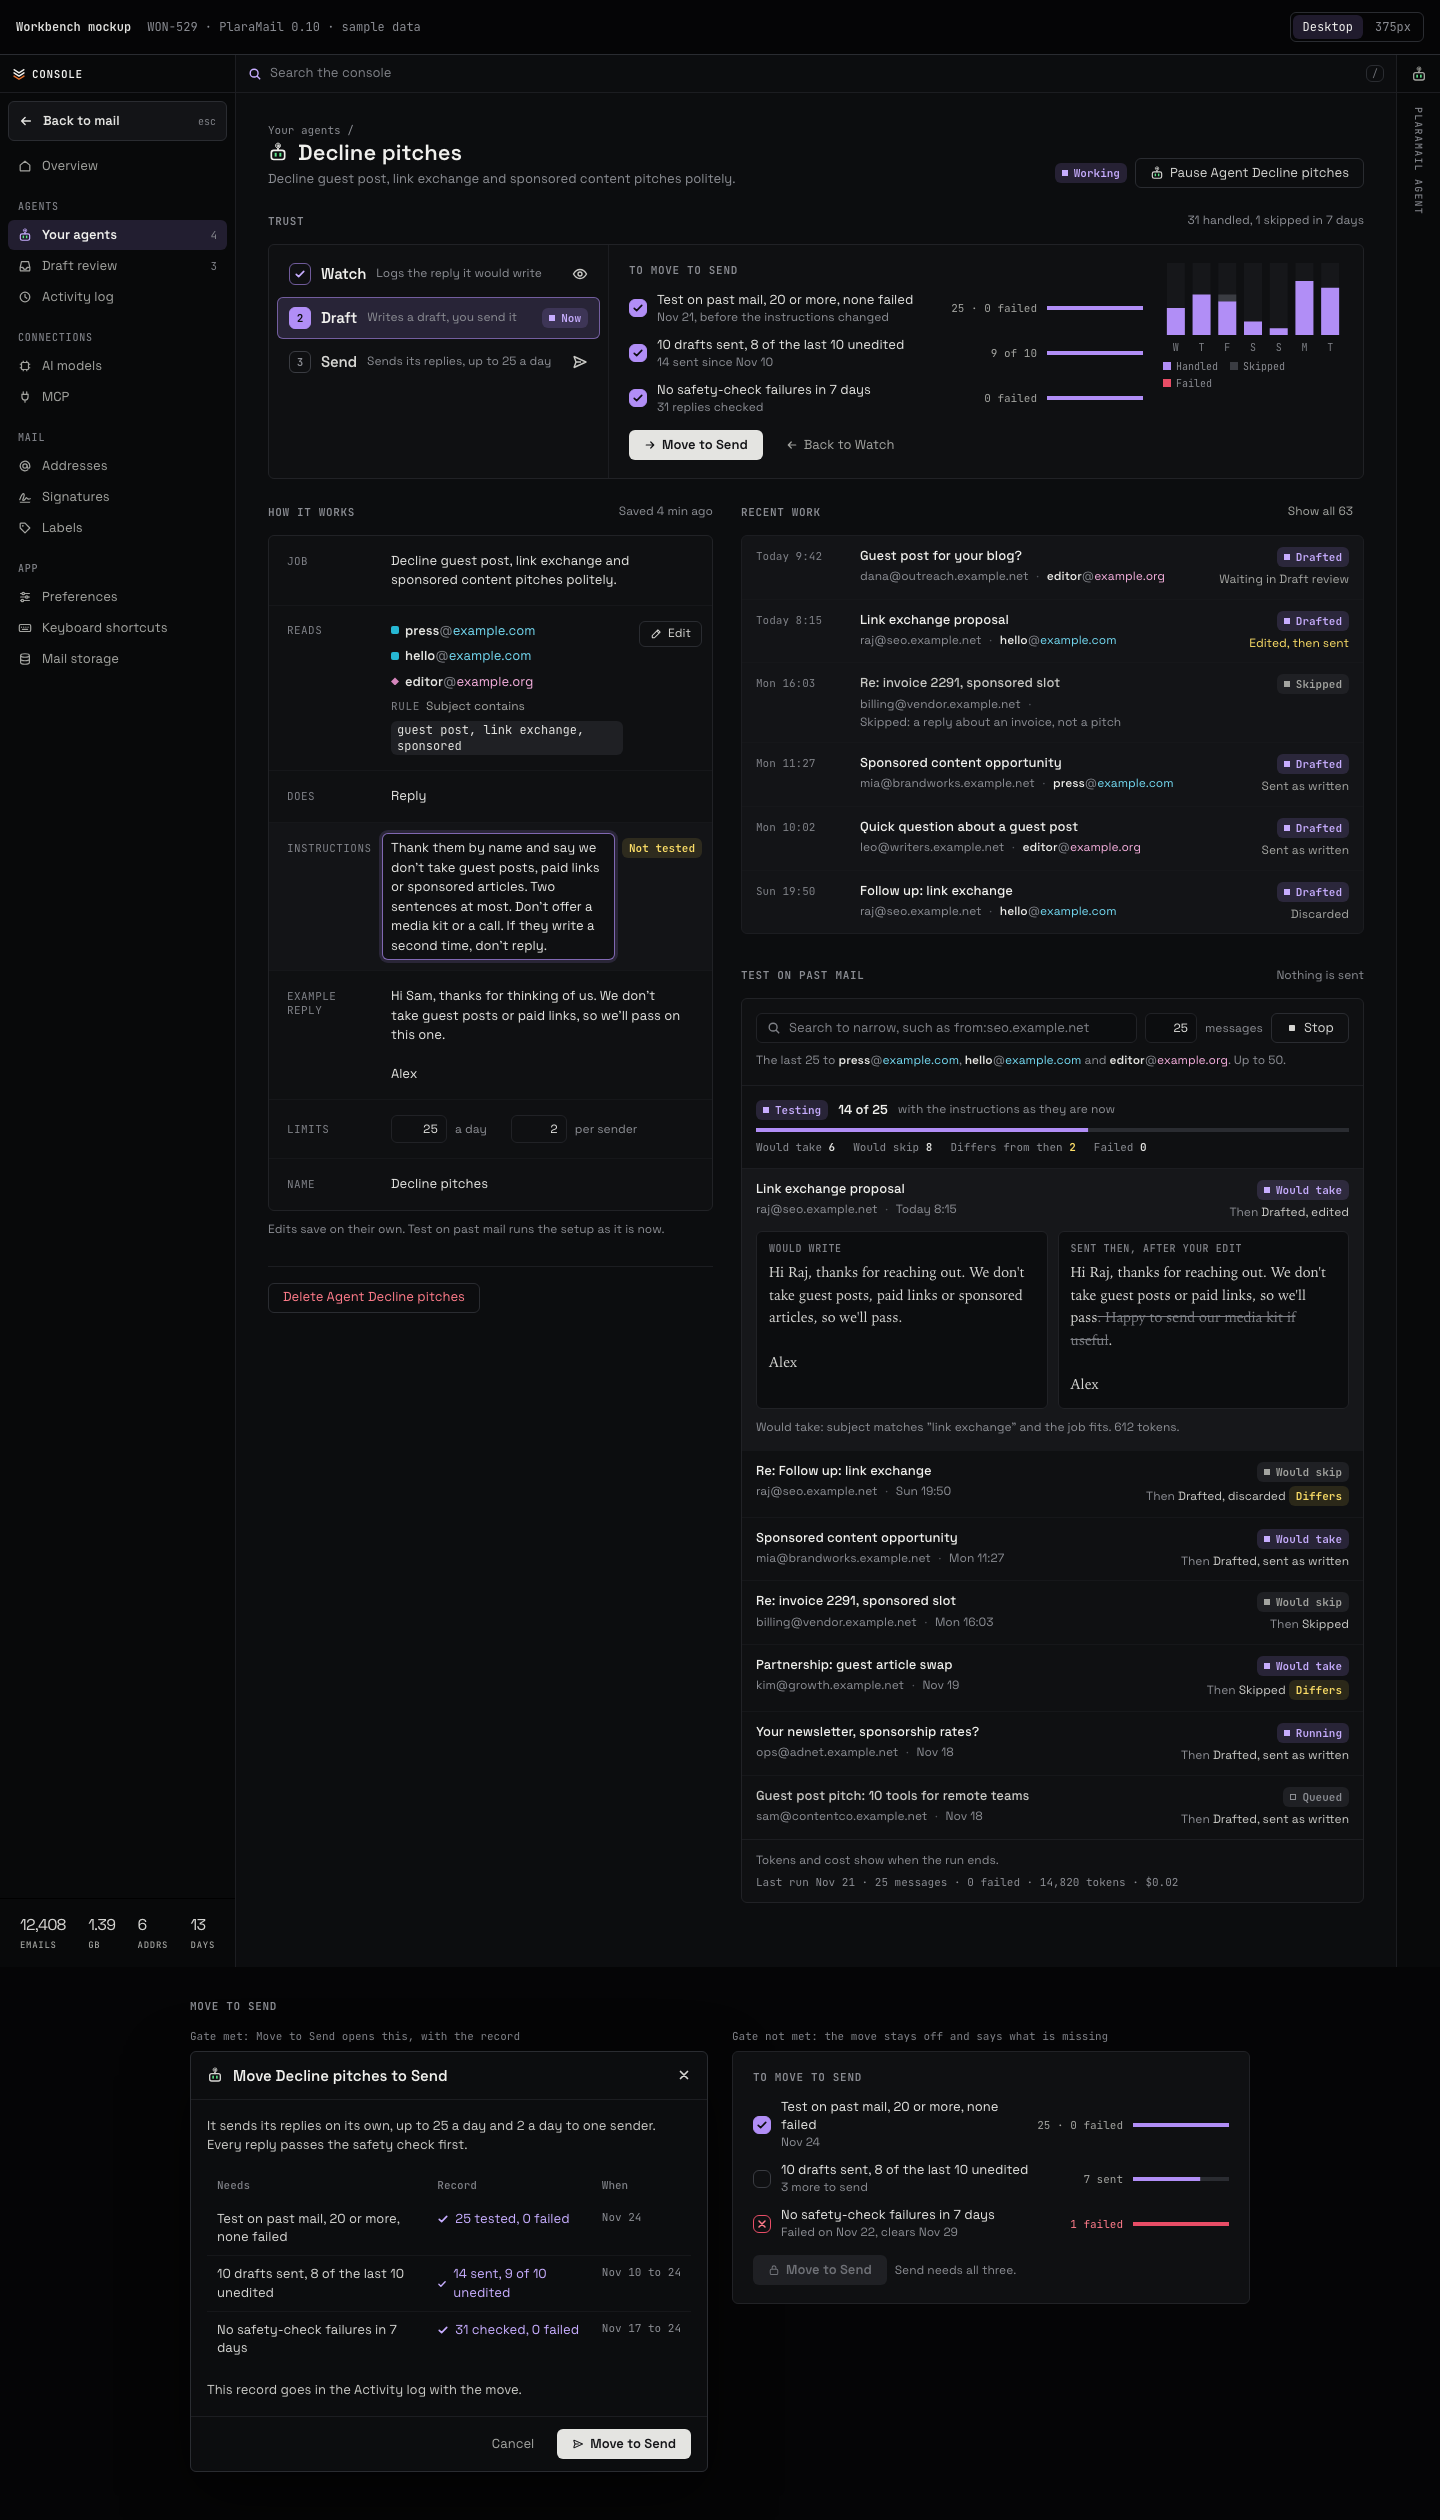
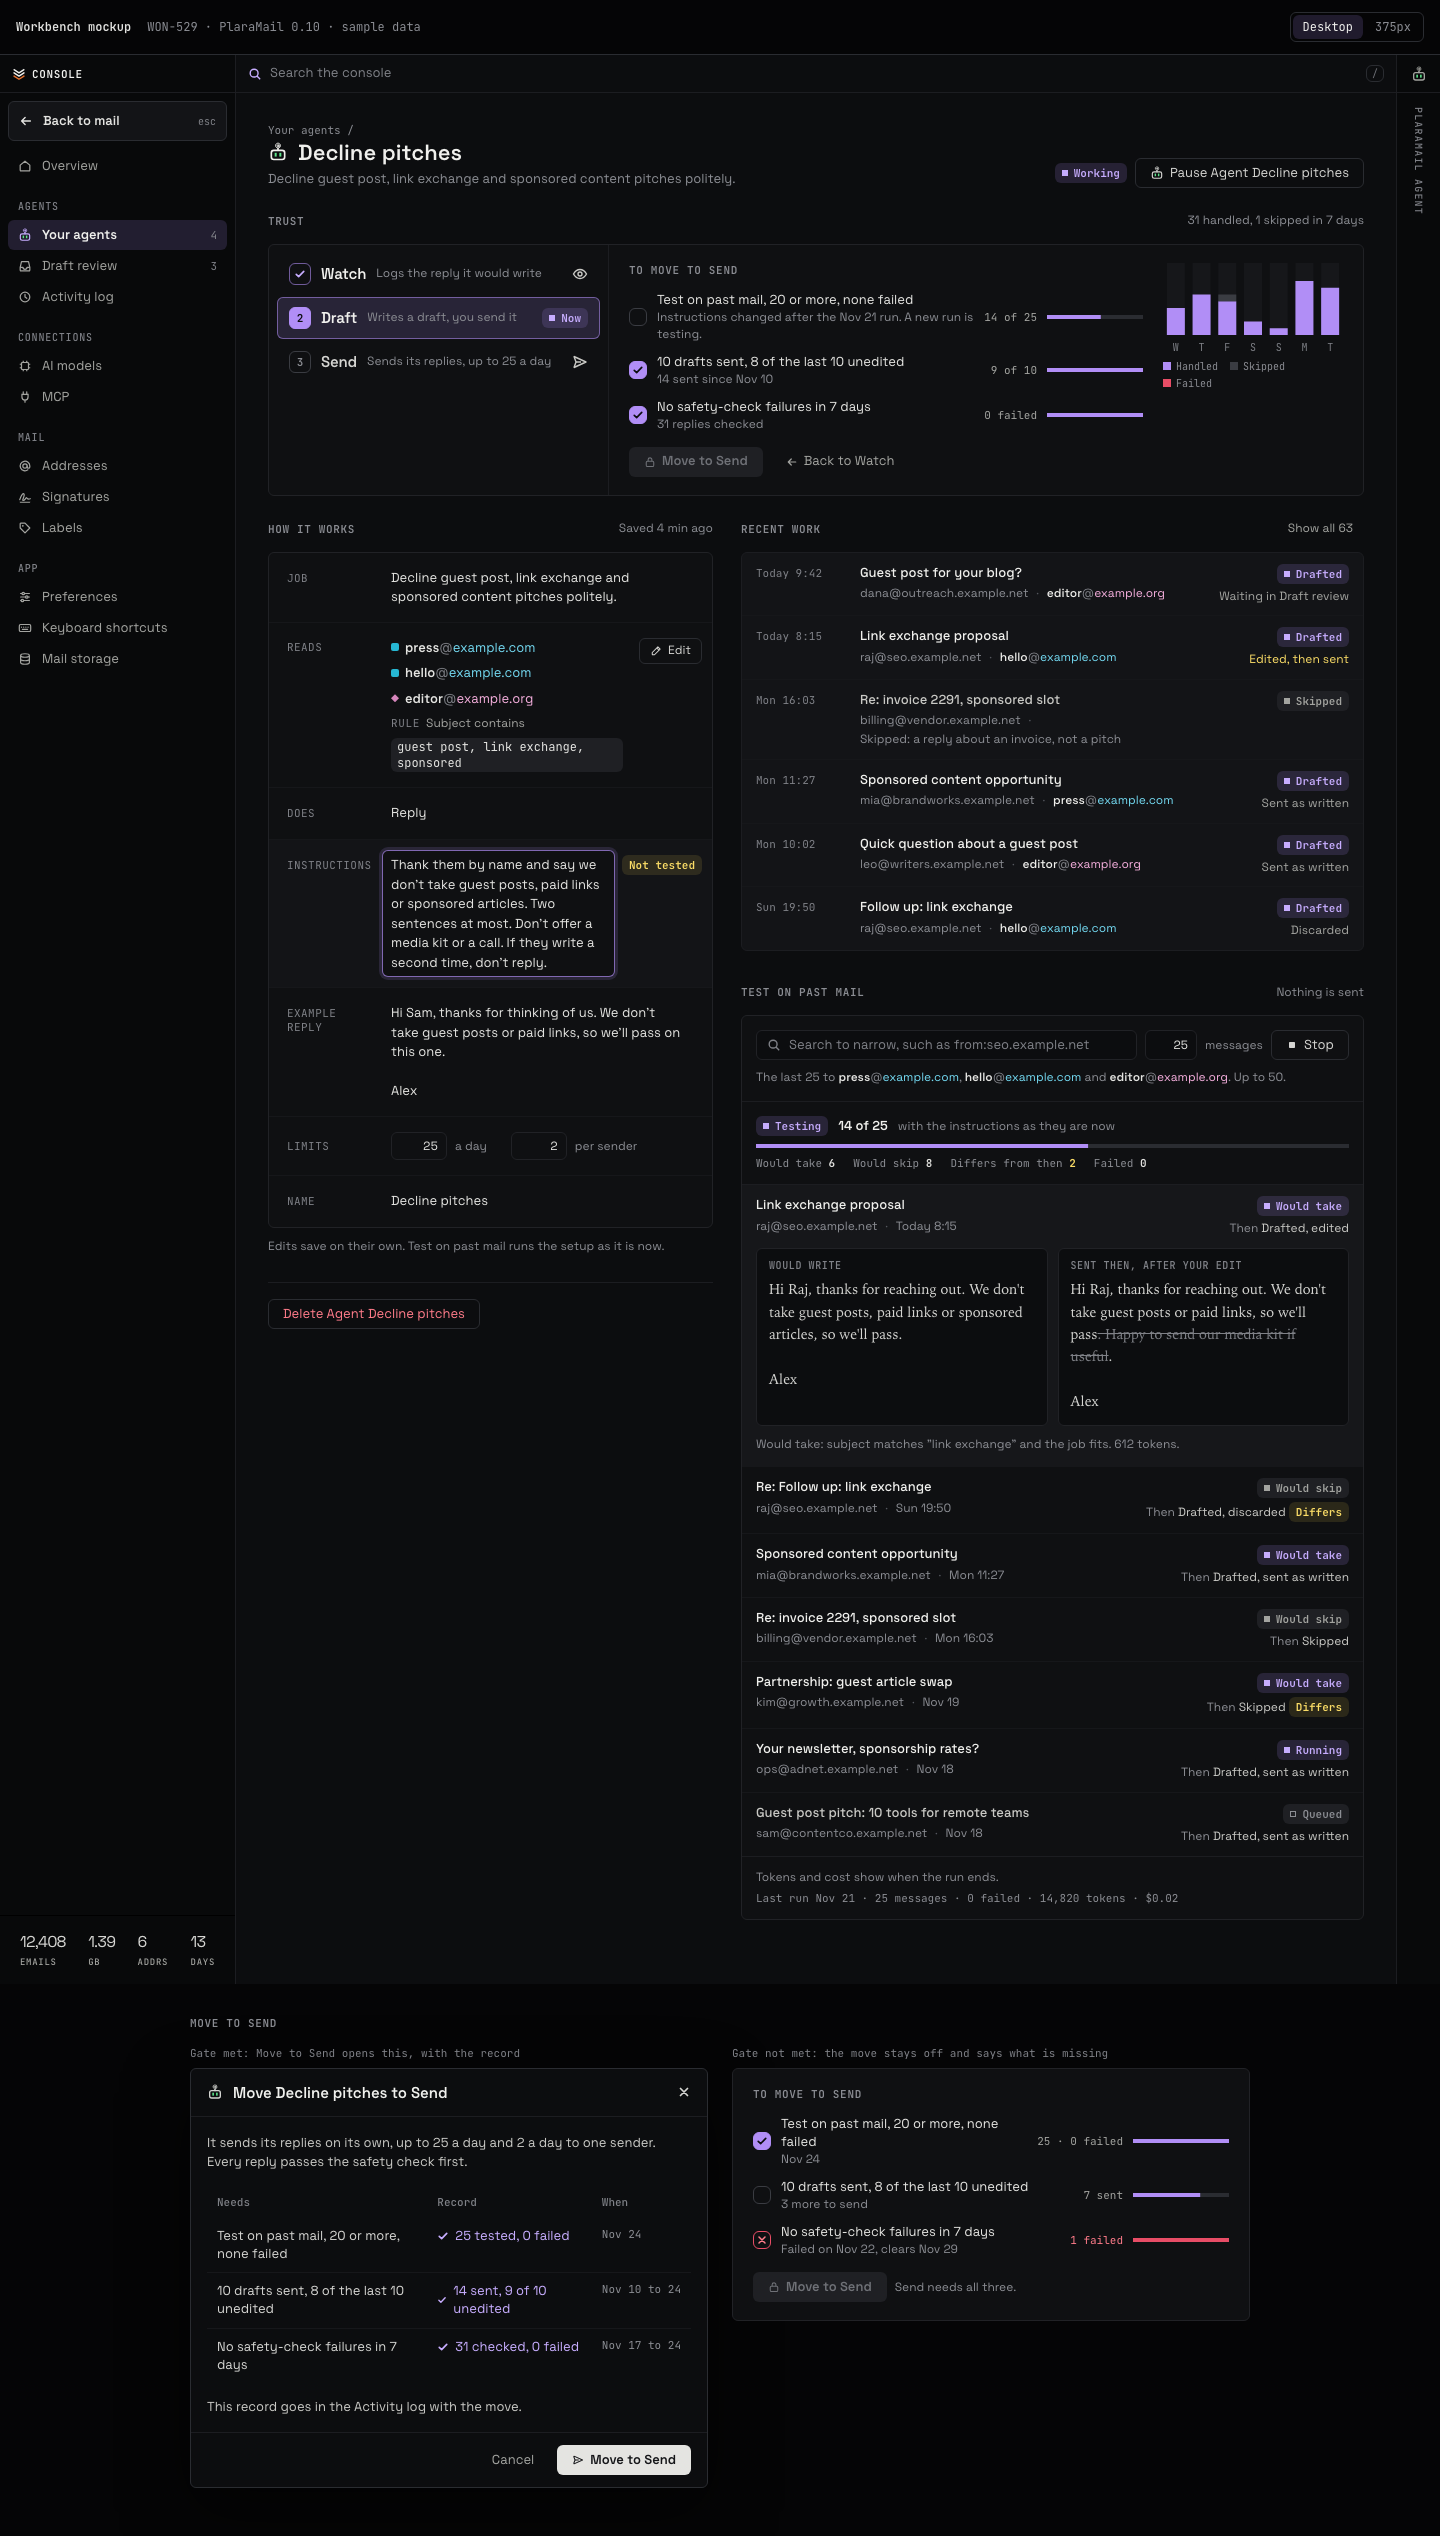
Workbench mockup: a setup change means the Test gate needs a new run (WON-529)

diff --git a/docs/mockups/workbench-0.10.html b/docs/mockups/workbench-0.10.html
@@ -426,11 +426,11 @@ svg.i20 { width: 20px; height: 20px; }
           <div class="gate">
             <h3>To move to Send</h3>
             <ul class="gate-list">
-              <li data-met>
-                <span class="gate-mark"><svg class="i12"><use href="#check"/></svg></span>
-                <span>Test on past mail, 20 or more, none failed<small>Nov 21, before the instructions changed</small></span>
-                <span class="gate-val">25 · 0 failed</span>
-                <svg class="meter" viewBox="0 0 100 4" preserveAspectRatio="none"><rect width="100" height="4"/><rect data-fill width="100" height="4"/></svg>
+              <li>
+                <span class="gate-mark"></span>
+                <span>Test on past mail, 20 or more, none failed<small>Instructions changed after the Nov 21 run. A new run is testing.</small></span>
+                <span class="gate-val">14 of 25</span>
+                <svg class="meter" viewBox="0 0 100 4" preserveAspectRatio="none"><rect width="100" height="4"/><rect data-fill width="56" height="4"/></svg>
               </li>
               <li data-met>
                 <span class="gate-mark"><svg class="i12"><use href="#check"/></svg></span>
@@ -446,7 +446,7 @@ svg.i20 { width: 20px; height: 20px; }
               </li>
             </ul>
             <div class="toolbar">
-              <button class="btn btn-primary" type="button"><svg class="i12"><use href="#arrow-r"/></svg>Move to Send</button>
+              <button class="btn btn-primary" type="button" disabled><svg class="i12"><use href="#lock"/></svg>Move to Send</button>
               <button class="btn btn-quiet" type="button"><svg class="i12"><use href="#arrow-l"/></svg>Back to Watch</button>
             </div>
           </div>
